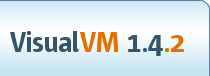
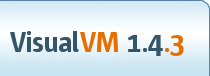
VisualVM 1.4.3 branding

Changed region(s): [[0.8, 0.5, 0.8857, 0.7368]]

diff --git a/visualvm/launcher/windows-src/version.h b/visualvm/launcher/windows-src/version.h
@@ -25,11 +25,11 @@
 
 #define COMPANY "Oracle Corporation"
 #define COMPONENT "VisualVM"
-#define VER "1.4.2.0"
-#define FVER 1,4,2,0
-#define BUILD_ID "22082018"
+#define VER "1.4.3.0"
+#define FVER 1,4,3,0
+#define BUILD_ID "10052019"
 #define INTERNAL_NAME "visualvm"
-#define COPYRIGHT "\xA9 2007, 2018, Oracle and/or its affiliates. All rights reserved."
+#define COPYRIGHT "\xA9 2007, 2019, Oracle and/or its affiliates. All rights reserved."
 #define FNAME "visualvm.exe"
 #define NAME "VisualVM"
 

diff --git a/visualvm/appui/src/com/sun/tools/visualvm/modules/appui/AboutAction.java b/visualvm/appui/src/com/sun/tools/visualvm/modules/appui/AboutAction.java
@@ -52,7 +52,7 @@ import org.openide.windows.WindowManager;
 public final class AboutAction extends AbstractAction {
     private final static Logger LOGGER = Logger.getLogger(AboutAction.class.getName());
     
-    private String versionString = "1.4.2"; // Use "Dev" for development builds   // NOI18N
+    private String versionString = "1.4.3"; // Use "Dev" for development builds   // NOI18N
 
 
     public AboutAction() {

diff --git a/README.md b/README.md
@@ -1,4 +1,4 @@
-# VisualVM 1.4.2 sources repository
+# VisualVM 1.4.3 sources repository
 
 VisualVM is a visual tool integrating commandline JDK tools and lightweight profiling capabilities. See https://visualvm.github.io for details, downloads and documentation.
 
